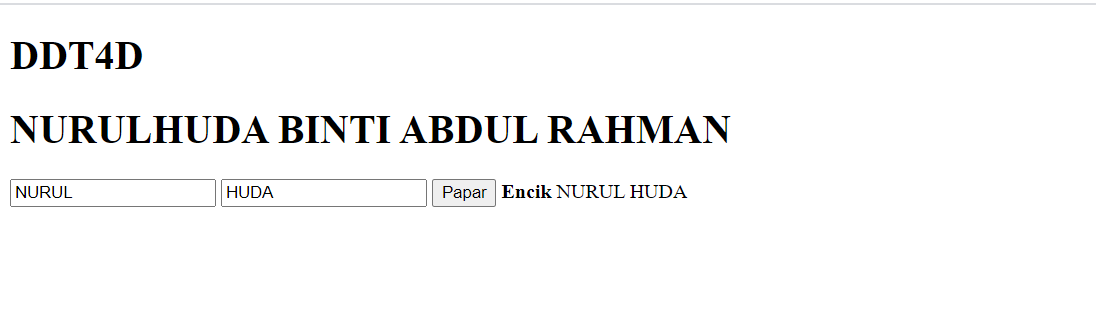
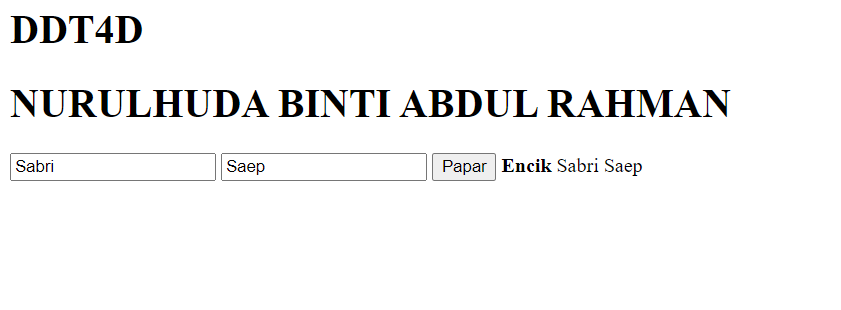
Cantum nama

Changed region(s): [[0.0, 0.2903, 0.8656, 0.4355], [0.0, 0.4935, 0.7729, 0.6387], [0.0, 0.0, 1.0, 0.2323]]

diff --git a/index.html b/index.html
@@ -12,15 +12,15 @@
     <h1>DDT4D</h1>
     <h1>NURULHUDA BINTI ABDUL RAHMAN </h1>
 
-    <input type="text" id="Firstname">
-    <input type="text" id="Secname">
+    <input type="text" id="Fname">
+    <input type="text" id="Lname">
     <button type="button" onclick="papar();">Papar</button>
     <span id="hasil"></span>
 
     <script>
         function papar() {
-            let Firstname = document.getElementById('Firstname').value;
-            let Secname=document.getElementById('Secname').value;
+            let Firstname = document.getElementById('Fname').value;
+            let Secname=document.getElementById('Lname').value;
             document.getElementById('hasil').innerHTML = '<b>Encik</b> ' + Firstname + Secname;
         }
 
